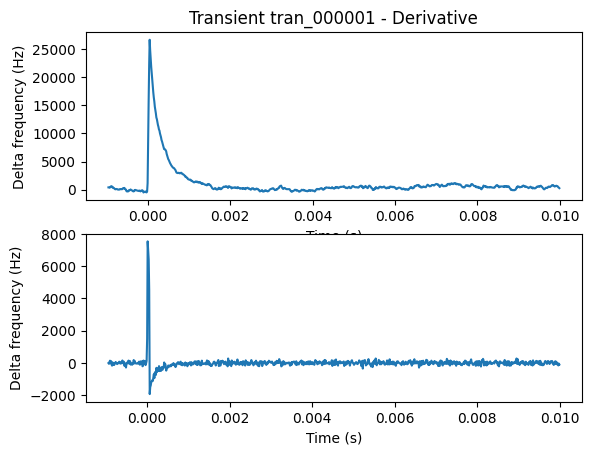
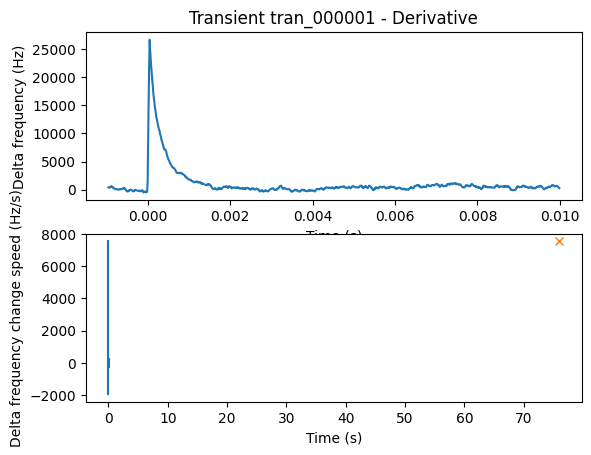
Plots and model changes

diff --git a/new/feature_extraction_bins.py b/new/feature_extraction_bins.py
@@ -42,10 +42,11 @@ import h5py
 import argparse
 import numpy as np
 import pandas as pd
+
 import dask
 import dask.dataframe as dd
 from dask.distributed import Client, LocalCluster
-from scipy.signal import find_peaks
+
 
 from config import (
     DATA_STRUCTURED_DIRECTORY,
@@ -98,42 +99,49 @@ def process_transient(df):
     feature_df = feature_df.rename_axis("transient").reset_index(drop=False)
     feature_df.transient = feature_df.transient.astype("category")
     feature_df.set_index("transient")
-    feature_df["transient"] = [df["transient"].iloc[0]]
 
-    # Calculate derivative
-    time_data = df["time"].to_numpy()
-    tran_data = df["frequency"].to_numpy()
-    time_data_dt = time_data[1:]
-    tran_data_dt = np.diff(tran_data)
+    feature_df["transient"] = [df['transient'].iloc[0]]
 
-    # If 'probe' data, just return column names with fake data
-    if len(tran_data) > 1:
-        # Calculate features
-        peaks, _ = find_peaks(tran_data_dt, height=1000)
-        num_peaks = len(peaks)
-        max = np.max(tran_data_dt)
-        if num_peaks > 1:
-            avg_peak_dis = np.mean(np.diff(time_data_dt[peaks]))
-        else:
-            avg_peak_dis = 0
-
-        # TODO find better way to select zero index
-        zero_timestamp = np.where(np.isclose(time_data_dt, 0, atol=1e-5))[0][0]
-        zero_min_dis = (
-            time_data_dt[zero_timestamp] - time_data_dt[np.argmin(tran_data_dt)]
-        )
-
-        feature_df["max"] = [max]
-        feature_df["num_peaks"] = [num_peaks]
-        feature_df["avg_peak_dis"] = [avg_peak_dis]
-        feature_df["zero_min_dis"] = [zero_min_dis]
+    if (len(df["time"].to_numpy()) > 1):
+        bin_maxs, last_timestamps = max_values_in_bins(df["time"].to_numpy(), df["frequency"].to_numpy(), 100)
+        for param_name, param_value in enumerate(bin_maxs):
+            feature_df["max_bin_" + str(param_name)] = [param_value]
     else:
-        feature_df["max"] = [0]
-        feature_df["num_peaks"] = [0]
-        feature_df["avg_peak_dis"] = [0]
-        feature_df["zero_min_dis"] = [0]
+        bin_maxs = np.repeat(1, 100)
+        for param_name, param_value in enumerate(bin_maxs):
+            feature_df["max_bin_" + str(param_name)] = [param_value]
 
     return feature_df
+
+
+def max_values_in_bins(timestamps, values, num_bins):
+    # Calculate the bin size
+    bin_size = (timestamps[-1] - timestamps[0]) / num_bins
+
+    # Calculate the bin edges
+    bin_edges = [timestamps[0] + i * bin_size for i in range(num_bins + 1)]
+
+    # Compute the histogram
+    bin_indices = np.digitize(timestamps, bin_edges)
+
+    # Initialize variables to store sums and last timestamps
+    bin_maxs = []
+    last_timestamps = []
+
+    # Iterate through the bins
+    for bin_num in range(1, num_bins + 1):
+        mask = bin_indices == bin_num
+        bin_max = np.max(values[mask])
+        last_timestamp = timestamps[mask][-1] if np.any(mask) else None
+        bin_maxs.append(bin_max)
+        last_timestamps.append(last_timestamp)
+
+    # Normalize the bin sums to the range [0, 1]
+    # max_sum = np.max(bin_maxs)
+    # min_sum = np.min(bin_maxs)
+    # normalized_bin_maxs = [(x - min_sum) / (max_sum - min_sum) for x in bin_maxs]
+
+    return bin_maxs, last_timestamps
 
 
 def main():

diff --git a/new/plot_transient_dt.py b/new/plot_transient_dt.py
@@ -3,6 +3,7 @@ import numpy as np
 import argparse
 import h5py
 import matplotlib.pyplot as plt
+from scipy.signal import find_peaks
 
 from config import (
     DATA_STRUCTURED_DIRECTORY,
@@ -24,7 +25,7 @@ tran_number = args.tran_number
 h5_path = os.path.join(DATA_STRUCTURED_DIRECTORY, f"run_{run_number:03d}.h5")
 with h5py.File(h5_path, "r") as h5file:
     tran_name = f"tran_{tran_number:06d}"
-    
+
     # Check if file is up to required processing stage
     require_processing_stage(h5file, 2, strict=True)
 
@@ -42,7 +43,7 @@ with h5py.File(h5_path, "r") as h5file:
     # Subtract mean baseline frequency from each sample to get delta frequency
     baseline_freq = h5file["sdr_data"]["all"][tran_name].attrs["baseline_freq_mean_hz"]
     tran_data = np.subtract(tran_data, baseline_freq)
-    
+
     # Apply moving average filter
     WINDOW_SIZE = 1000
     window = np.ones(WINDOW_SIZE) / WINDOW_SIZE
@@ -54,19 +55,38 @@ with h5py.File(h5_path, "r") as h5file:
     # Downsample time and frequency data
     time_data = time_data[::DOWNSAMPLE_FACTOR]
     tran_data = tran_data[::DOWNSAMPLE_FACTOR]
-    
+
     # Calculate derivative
     time_data_dt = time_data[1:]
     tran_data_dt = np.diff(tran_data)
-    
+
     fig, ax = plt.subplots(2, 1)
     ax[0].plot(time_data, tran_data)
     ax[0].set_xlabel("Time (s)")
     ax[0].set_ylabel("Delta frequency (Hz)")
-    
+
     ax[1].plot(time_data_dt, tran_data_dt)
     ax[1].set_xlabel("Time (s)")
-    ax[1].set_ylabel("Delta frequency (Hz)")
+    ax[1].set_ylabel("Delta frequency change speed (Hz/s)")
+
+    # Calculate features
+    f_max = np.max(tran_data_dt)
+
+    peaks, _ = find_peaks(tran_data_dt, height=1000)
+    ax[1].plot(time_data_dt[peaks], tran_data_dt[peaks], "x")
+
+    f_avg_peak_dis = np.mean(np.diff(time_data_dt[peaks]))
+    if np.isnan(f_avg_peak_dis):
+        f_avg_peak_dis = 0
+
+    # TODO find better way to select zero index
+    zero_timestamp = np.where(np.isclose(time_data_dt, 0, atol=1e-5))[0][0]
+    f_zero_max_dis = time_data_dt[zero_timestamp] - time_data_dt[np.argmin(tran_data_dt)]
+    
+    print(f"max: {f_max} Hz/s")
+    print(f"num_peaks: {len(peaks)}")
+    print(f"avg_inter_peak_dis: {f_avg_peak_dis} s")
+    print(f"zero_max_dis: {f_zero_max_dis} s")
 
     ax[0].set_title(f"Transient {tran_name} - Derivative")
     plt.savefig(f"plots/run_dt_{run_number:03d}_{tran_name}.png", bbox_inches="tight")

diff --git a/new/plot_features_3d.py b/new/plot_features_3d.py
@@ -1,0 +1,61 @@
+import os
+import pandas as pd
+import numpy as np
+import argparse
+import random
+import seaborn as sns
+from sklearn.decomposition import PCA
+from sklearn.preprocessing import StandardScaler
+import matplotlib.pyplot as plt
+from matplotlib.colors import from_levels_and_colors
+
+from config import DATA_FEATURES_DIRECTORY, DATA_LABELED_DIRECTORY
+from utils import generatePlotTitle
+
+N_COMPONENTS = 3
+
+# Initialise argument parser
+parser = argparse.ArgumentParser()
+parser.add_argument("run_number", type=int)
+args = parser.parse_args()
+run_number = args.run_number
+
+df_features = pd.read_csv(os.path.join(DATA_FEATURES_DIRECTORY, f"run_{run_number:03d}.csv"))
+df_labeled = pd.read_csv(os.path.join(DATA_LABELED_DIRECTORY, f"run_{run_number:03d}.csv"))
+df = pd.merge(df_features, df_labeled, on='transient')
+df.type = df.type.astype("category")
+
+# Initialize the 3D graph
+fig = plt.figure()
+ax = fig.add_subplot(111, projection="3d")
+ax.view_init(elev=45., azim=60)
+
+# Define scaled features as arrays
+xdata = df["max"]
+ydata = df["avg_peak_dis"]
+zdata = df["zero_min_dis"]
+
+# Plot 3D scatterplot of PCA
+color_labels = df["type"].unique()
+col_values = sns.color_palette(n_colors=len(color_labels))
+color_map = dict(zip(color_labels, col_values))
+colors = [color_map[label] for label in df['type'].values]
+
+# Add transient names to plot
+# for i in range(len(xdata)):
+#     if random.random() < 0.1:
+#         ax.text(
+#             xdata[i], ydata[i], zdata[i], pca_df_scaled["transient"][i], fontsize='small'
+#         )
+
+ax.scatter(xdata, ydata, zdata, c=colors, alpha=0.5)
+
+# Plot title of graph
+generatePlotTitle(ax, f"3D plot, run_{run_number:03d}", run_number)
+
+# Plot x, y, z labels
+ax.set_xlabel("max")
+ax.set_ylabel("avg_peak_dis")
+ax.set_zlabel("zero_min_dis")
+
+plt.savefig(f"plots/3d.png", bbox_inches="tight")

diff --git a/new/plot_features_2d.py b/new/plot_features_2d.py
@@ -1,0 +1,36 @@
+import os
+import pandas as pd
+import numpy as np
+import seaborn as sns
+import argparse
+import random
+from sklearn.decomposition import PCA
+from sklearn.preprocessing import StandardScaler
+import matplotlib.pyplot as plt
+
+from config import DATA_FEATURES_DIRECTORY, DATA_LABELED_DIRECTORY
+from utils import generatePlotTitle
+
+# Initialise argument parser
+parser = argparse.ArgumentParser()
+parser.add_argument("run_number", type=int)
+args = parser.parse_args()
+run_number = args.run_number
+
+df_features = pd.read_csv(os.path.join(DATA_FEATURES_DIRECTORY, f"run_{run_number:03d}.csv"))
+df_labeled = pd.read_csv(os.path.join(DATA_LABELED_DIRECTORY, f"run_{run_number:03d}.csv"))
+df = pd.merge(df_features, df_labeled, on='transient')
+df.type = df.type.astype("category")
+
+# Plot result
+fig, ax = plt.subplots()
+sns.scatterplot(
+    x="zero_min_dis", y="num_peaks", data=df, hue="type", legend=True, ax=ax
+)
+
+ax.set_xlabel("zero_min_dis")
+ax.set_ylabel("num_peaks")
+
+generatePlotTitle(ax, "2D plot", run_number)
+
+plt.savefig(f"plots/2d.png", bbox_inches="tight")

diff --git a/new/plot_transients.py b/new/plot_transients.py
@@ -1,0 +1,35 @@
+import os
+import pandas as pd
+import numpy as np
+import seaborn as sns
+import argparse
+import random
+from sklearn.decomposition import PCA
+from sklearn.preprocessing import StandardScaler
+import matplotlib.pyplot as plt
+
+from config import DATA_FEATURES_DIRECTORY, DATA_LABELED_DIRECTORY
+from utils import generatePlotTitle
+
+# Initialise argument parser
+parser = argparse.ArgumentParser()
+parser.add_argument("run_number", type=int)
+args = parser.parse_args()
+run_number = args.run_number
+
+df_features = pd.read_csv(os.path.join(DATA_FEATURES_DIRECTORY, f"run_{run_number:03d}.csv"))
+df_labeled = pd.read_csv(os.path.join(DATA_LABELED_DIRECTORY, f"run_{run_number:03d}.csv"))
+df = pd.merge(df_features, df_labeled, on='transient')
+df.type = df.type.astype("category")
+
+# Plot result
+fig, ax = plt.subplots()
+sns.barplot(
+    x="transient", y="type", data=df, hue="type", legend=True, ax=ax
+)
+
+ax.set_ylim(0, 8)
+
+generatePlotTitle(ax, "Transient type vs time", run_number)
+
+plt.savefig(f"plots/ttt.png", bbox_inches="tight")

diff --git a/new/plot_features_pca.py b/new/plot_features_pca.py
@@ -64,9 +64,9 @@ sns.scatterplot(
     x="PC1", y="PC2", data=pca_df_scaled, hue="type", legend=True, ax=ax
 )
 
-for i, txt in enumerate(df["transient"]):
-    if random.random() < 0.5:
-        ax.annotate(txt, (pca_df_scaled["PC1"][i], pca_df_scaled["PC2"][i]))
+# for i, txt in enumerate(df["transient"]):
+#     if random.random() < 0.01:
+#         ax.annotate(txt, (pca_df_scaled["PC1"][i], pca_df_scaled["PC2"][i]))
 
 varnames = {}
 for i, varname in enumerate(feature_names):

diff --git a/new/model_gradientboosting.py b/new/model_gradientboosting.py
@@ -7,8 +7,6 @@ from sklearn.model_selection import train_test_split
 
 from config import DATA_FEATURES_DIRECTORY, DATA_LABELED_DIRECTORY
 
-N_COMPONENTS = 10
-
 # Initialise argument parser
 parser = argparse.ArgumentParser()
 parser.add_argument("run_number", type=int)
